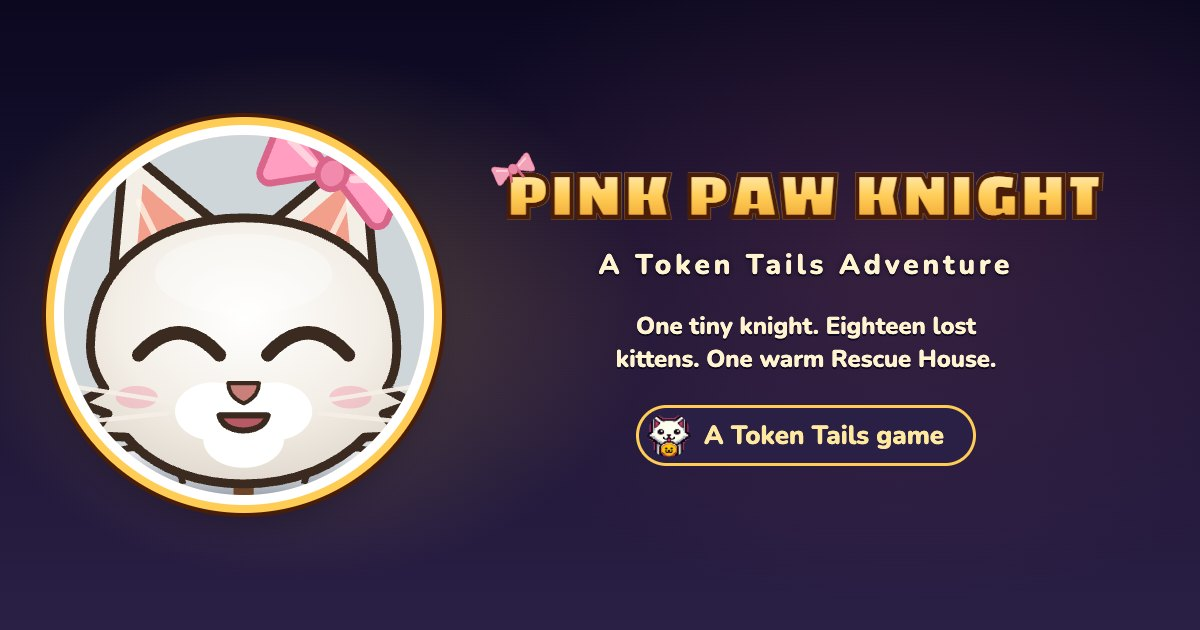
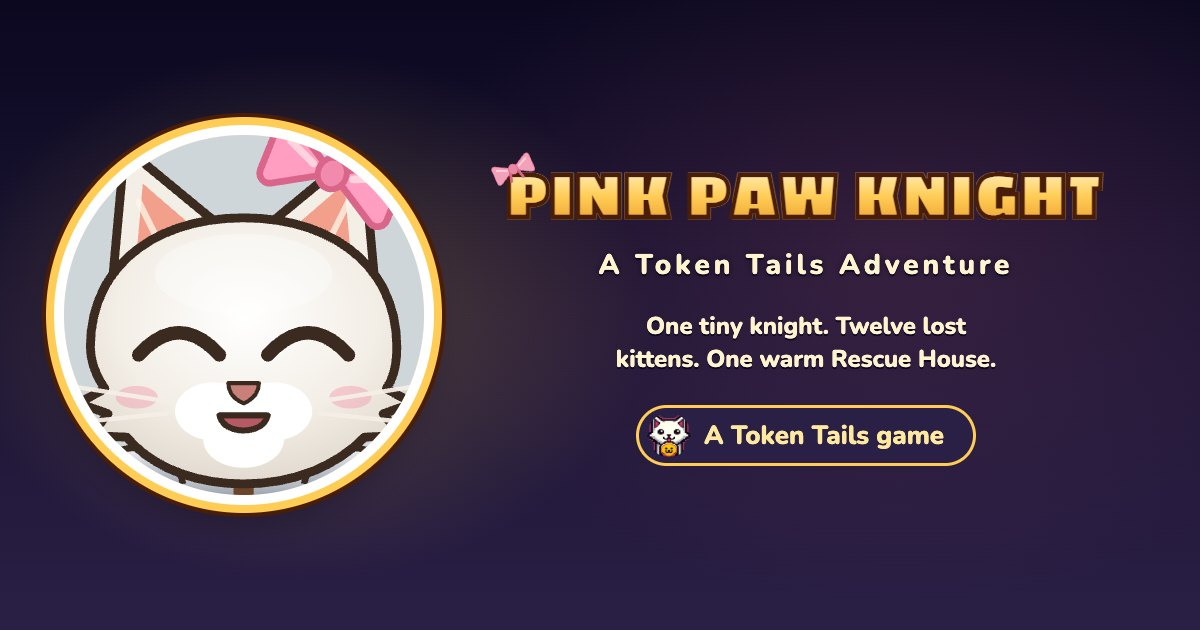
fix(tokentails): say twelve lost kittens until bog and keep ship
Tagline, meta description and share card. The Continue line and the pause menu
count out of the 12 reachable kittens.

Changed region(s): [[0.5242, 0.4825, 0.8325, 0.5429]]

diff --git a/src/ui/menus.js b/src/ui/menus.js
@@ -14,7 +14,7 @@
 //
 // One stack of screens; keyboard / gamepad navigate through input actions (navUp/Down/Left/Right, confirm, back,
 // pause) with hold-repeat, the mouse hovers + clicks, touch taps. `MenuNav` is the pure focus model (node-tested).
-import { KITTEN_IDS, KITTENS_BY_LEVEL, LEVEL_IDS } from '../core/config.js';
+import { KITTEN_IDS, KITTENS_BY_LEVEL, LEVEL_IDS, REACHABLE_KITTEN_IDS } from '../core/config.js';
 import { el, flag, setText, setVar, pulse } from './dom.js';
 import { tx, esc, actionGlyph, presetGlyph, codeLabel, PRESET_IDS, glyphHtml, glyphWords } from './text.js';
 import { codeWords } from './inputGlyph.js';
@@ -833,7 +833,7 @@ export class Menus {
     const inBoss = !!ctx.enemies?.boss && ctx.enemies.boss.alive !== false;
     const items = [
       this._button(body, tx(ctx, 'pause.resume'), () => this.ui.resume()),
-      this._button(body, tx(ctx, 'pause.kittens'), () => this.openKittens(), { sub: tx(ctx, 'pause.kittensCount', { n: (st?.kittens ?? []).length, max: KITTEN_IDS.length }) }),
+      this._button(body, tx(ctx, 'pause.kittens'), () => this.openKittens(), { sub: tx(ctx, 'pause.kittensCount', { n: (st?.kittens ?? []).length, max: REACHABLE_KITTEN_IDS.length }) }),
       this._button(body, tx(ctx, 'pause.letters'), () => this.openLetters(), { sub: tx(ctx, 'pause.lettersCount', { n: (st?.letters ?? []).filter((l) => /^l\d$/.test(l)).length, max: LEVEL_IDS.length }) }),
       this._button(body, tx(ctx, 'menu.stickers'), () => this.openStickers(), { sub: tx(ctx, 'ui.stickers.count', { n: stickerCells(ctx).filter((c) => c.owned).length, max: STICKER_IDS.length }) }),
       this._button(body, tx(ctx, 'pause.settings'), () => this.openSettings()),
@@ -969,12 +969,12 @@ export class Menus {
   dispose() { for (const off of this._domOffs) off(); this.root.remove(); }
 }
 
-/** Continue button sub-line: "Purrdale Meadows · 5/18 kittens" from a save summary / resume point. Pure. */
+/** Continue button sub-line: "Purrdale Meadows · 5/12" from a save summary / resume point (reachable kittens only). Pure. */
 export function continueSub(ctx, sum) {
   if (!sum?.levelId) return '';
   const region = tx(ctx, `region.${sum.levelId}`);
   const n = Array.isArray(sum.kittens) ? sum.kittens.length : Number.isFinite(sum.kittens) ? sum.kittens : ctx.state?.kittens?.length;
-  return Number.isFinite(n) ? `${region} · ${n}/${KITTEN_IDS.length}` : region;
+  return Number.isFinite(n) ? `${region} · ${n}/${REACHABLE_KITTEN_IDS.length}` : region;
 }
 
 /**

diff --git a/tests/unit/ui.test.js b/tests/unit/ui.test.js
@@ -241,8 +241,9 @@ test('Pause → Letters: one per level, text only when found', () => {
 test('Continue sub-line and the credits markdown renderer', () => {
   const ctx = ctx0();
   assert.equal(continueSub(ctx, null), '');
-  assert.equal(continueSub(ctx, { levelId: 'forest', kittens: 5 }), `Whiskerwood · 5/${KITTEN_IDS.length}`);
-  assert.equal(continueSub(ctx, { levelId: 'meadow', kittens: ['a', 'b'] }), `Purrdale Meadows · 2/${KITTEN_IDS.length}`);
+  // only reachable kittens count: bog and keep are stubs, so the line can reach 12/12
+  assert.equal(continueSub(ctx, { levelId: 'forest', kittens: 5 }), 'Whiskerwood · 5/12');
+  assert.equal(continueSub(ctx, { levelId: 'meadow', kittens: ['a', 'b'] }), 'Purrdale Meadows · 2/12');
   const html = licensesHtml('# Title\n\nSome **bold** text <script>\n\n| a | b |\n|---|---|\n| x | y |\n- item\n');
   assert.ok(!/<script>/.test(html), 'escaped');
   assert.match(html, /Title/);

diff --git a/src/core/config.js b/src/core/config.js
@@ -411,6 +411,10 @@ export const KITTEN_IDS = ['biscuit', 'noodle', 'button', 'pickles', 'pebble', '
   'tater', 'mittens', 'socks', 'juniper', 'bramble', 'fennel', 'bean', 'crumpet', 'dumpling'];
 export const KITTENS_BY_LEVEL = { meadow: KITTEN_IDS.slice(0, 3), forest: KITTEN_IDS.slice(3, 6), town: KITTEN_IDS.slice(6, 9),
   gate: KITTEN_IDS.slice(9, 12), bog: KITTEN_IDS.slice(12, 15), keep: KITTEN_IDS.slice(15, 18) };
+/** Levels that are still bootable stubs with no kittens in them (STATUS.md Known issues). */
+export const STUB_LEVEL_IDS = ['bog', 'keep'];
+/** The kittens a player can rescue today (12 until bog and keep ship). Progress counts and public copy use this. */
+export const REACHABLE_KITTEN_IDS = KITTEN_IDS.filter((id) => !STUB_LEVEL_IDS.some((l) => KITTENS_BY_LEVEL[l].includes(id)));
 
 /** Game modes (§19.1 A7). */
 export const MODES = ['play', 'dialog', 'cutscene', 'menu', 'memecam'];

diff --git a/index.html b/index.html
@@ -7,7 +7,7 @@
   <meta name="theme-color" content="#0B0820">
   <!-- the game's name lives in src/core/brand.js; vite.config.js fills the percent-wrapped GAME_TITLE / PAGE_TITLE / … placeholders -->
   <title>%PAGE_TITLE%</title>
-  <meta name="description" content="%GAME_TITLE%: a tiny cat knight with a pink bow rescues 18 lost kittens on Purrhaven Isle. %GAME_SUBTITLE%.">
+  <meta name="description" content="%GAME_TITLE%: a tiny cat knight with a pink bow rescues 12 lost kittens on Purrhaven Isle. %GAME_SUBTITLE%.">
   <meta name="application-name" content="%GAME_TITLE%">
   <meta name="apple-mobile-web-app-title" content="%GAME_TITLE%">
   <meta property="og:type" content="website">

diff --git a/tests/unit/brand.test.js b/tests/unit/brand.test.js
@@ -44,7 +44,7 @@ test('BRAND: frozen, the title in one place, derived caps, Pink Paw names behind
   assert.equal(BRAND.title, 'Pink Paw Knight');
   assert.equal(BRAND.titleCaps, BRAND.title.toUpperCase());
   assert.equal(BRAND.subtitle, 'A Token Tails Adventure');
-  assert.equal(BRAND.tagline, 'One tiny knight. Eighteen lost kittens. One warm Rescue House.');
+  assert.equal(BRAND.tagline, 'One tiny knight. Twelve lost kittens. One warm Rescue House.');
   assert.equal(BRAND.usePinkPawName, true);
   assert.equal(BRAND.rescueHouse, 'Pink Paw Rescue House');
   assert.equal(BRAND.fallbackRescueHouse, 'Pawsbury Rescue House');

diff --git a/src/core/brand.js b/src/core/brand.js
@@ -34,7 +34,7 @@ export const BRAND = Object.freeze({
   title,
   titleCaps: title.toUpperCase(),
   subtitle: 'A Token Tails Adventure',
-  tagline: 'One tiny knight. Eighteen lost kittens. One warm Rescue House.',
+  tagline: 'One tiny knight. Twelve lost kittens. One warm Rescue House.',
   usePinkPawName: USE_PINK_PAW_NAME,
   fallbackTitle: FALLBACK_TITLE,
   shelterName: 'Pink Paw',
